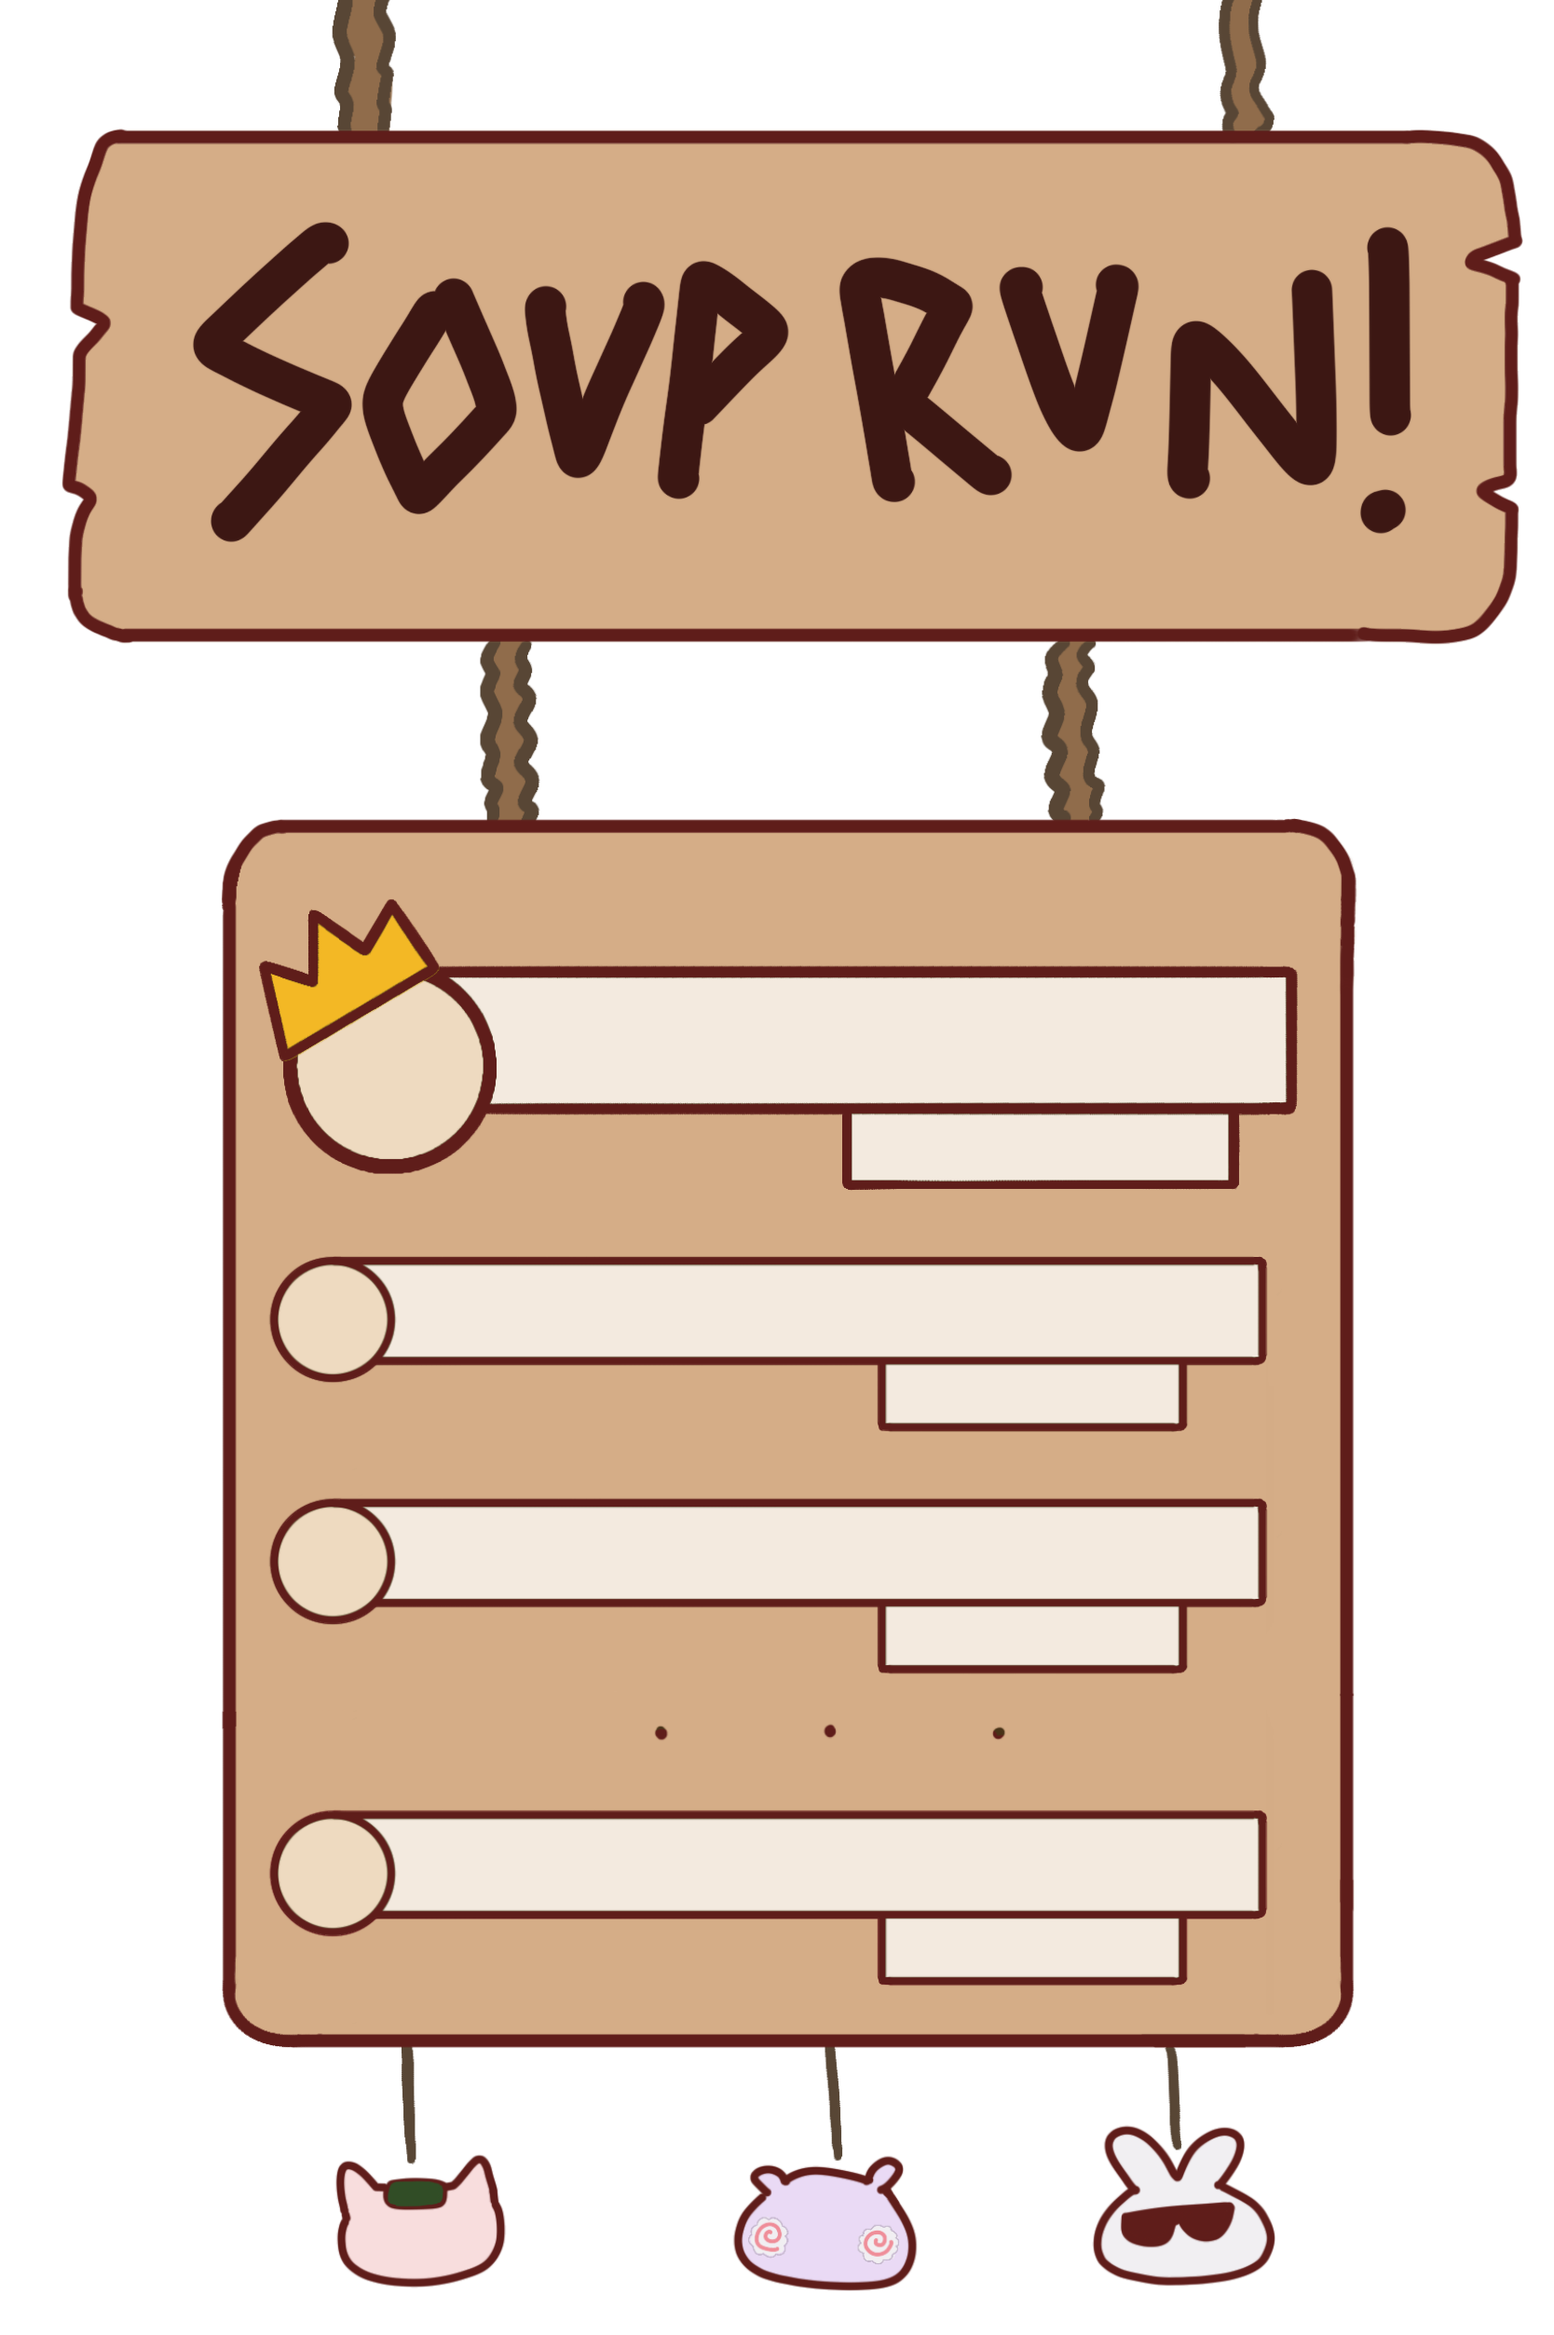
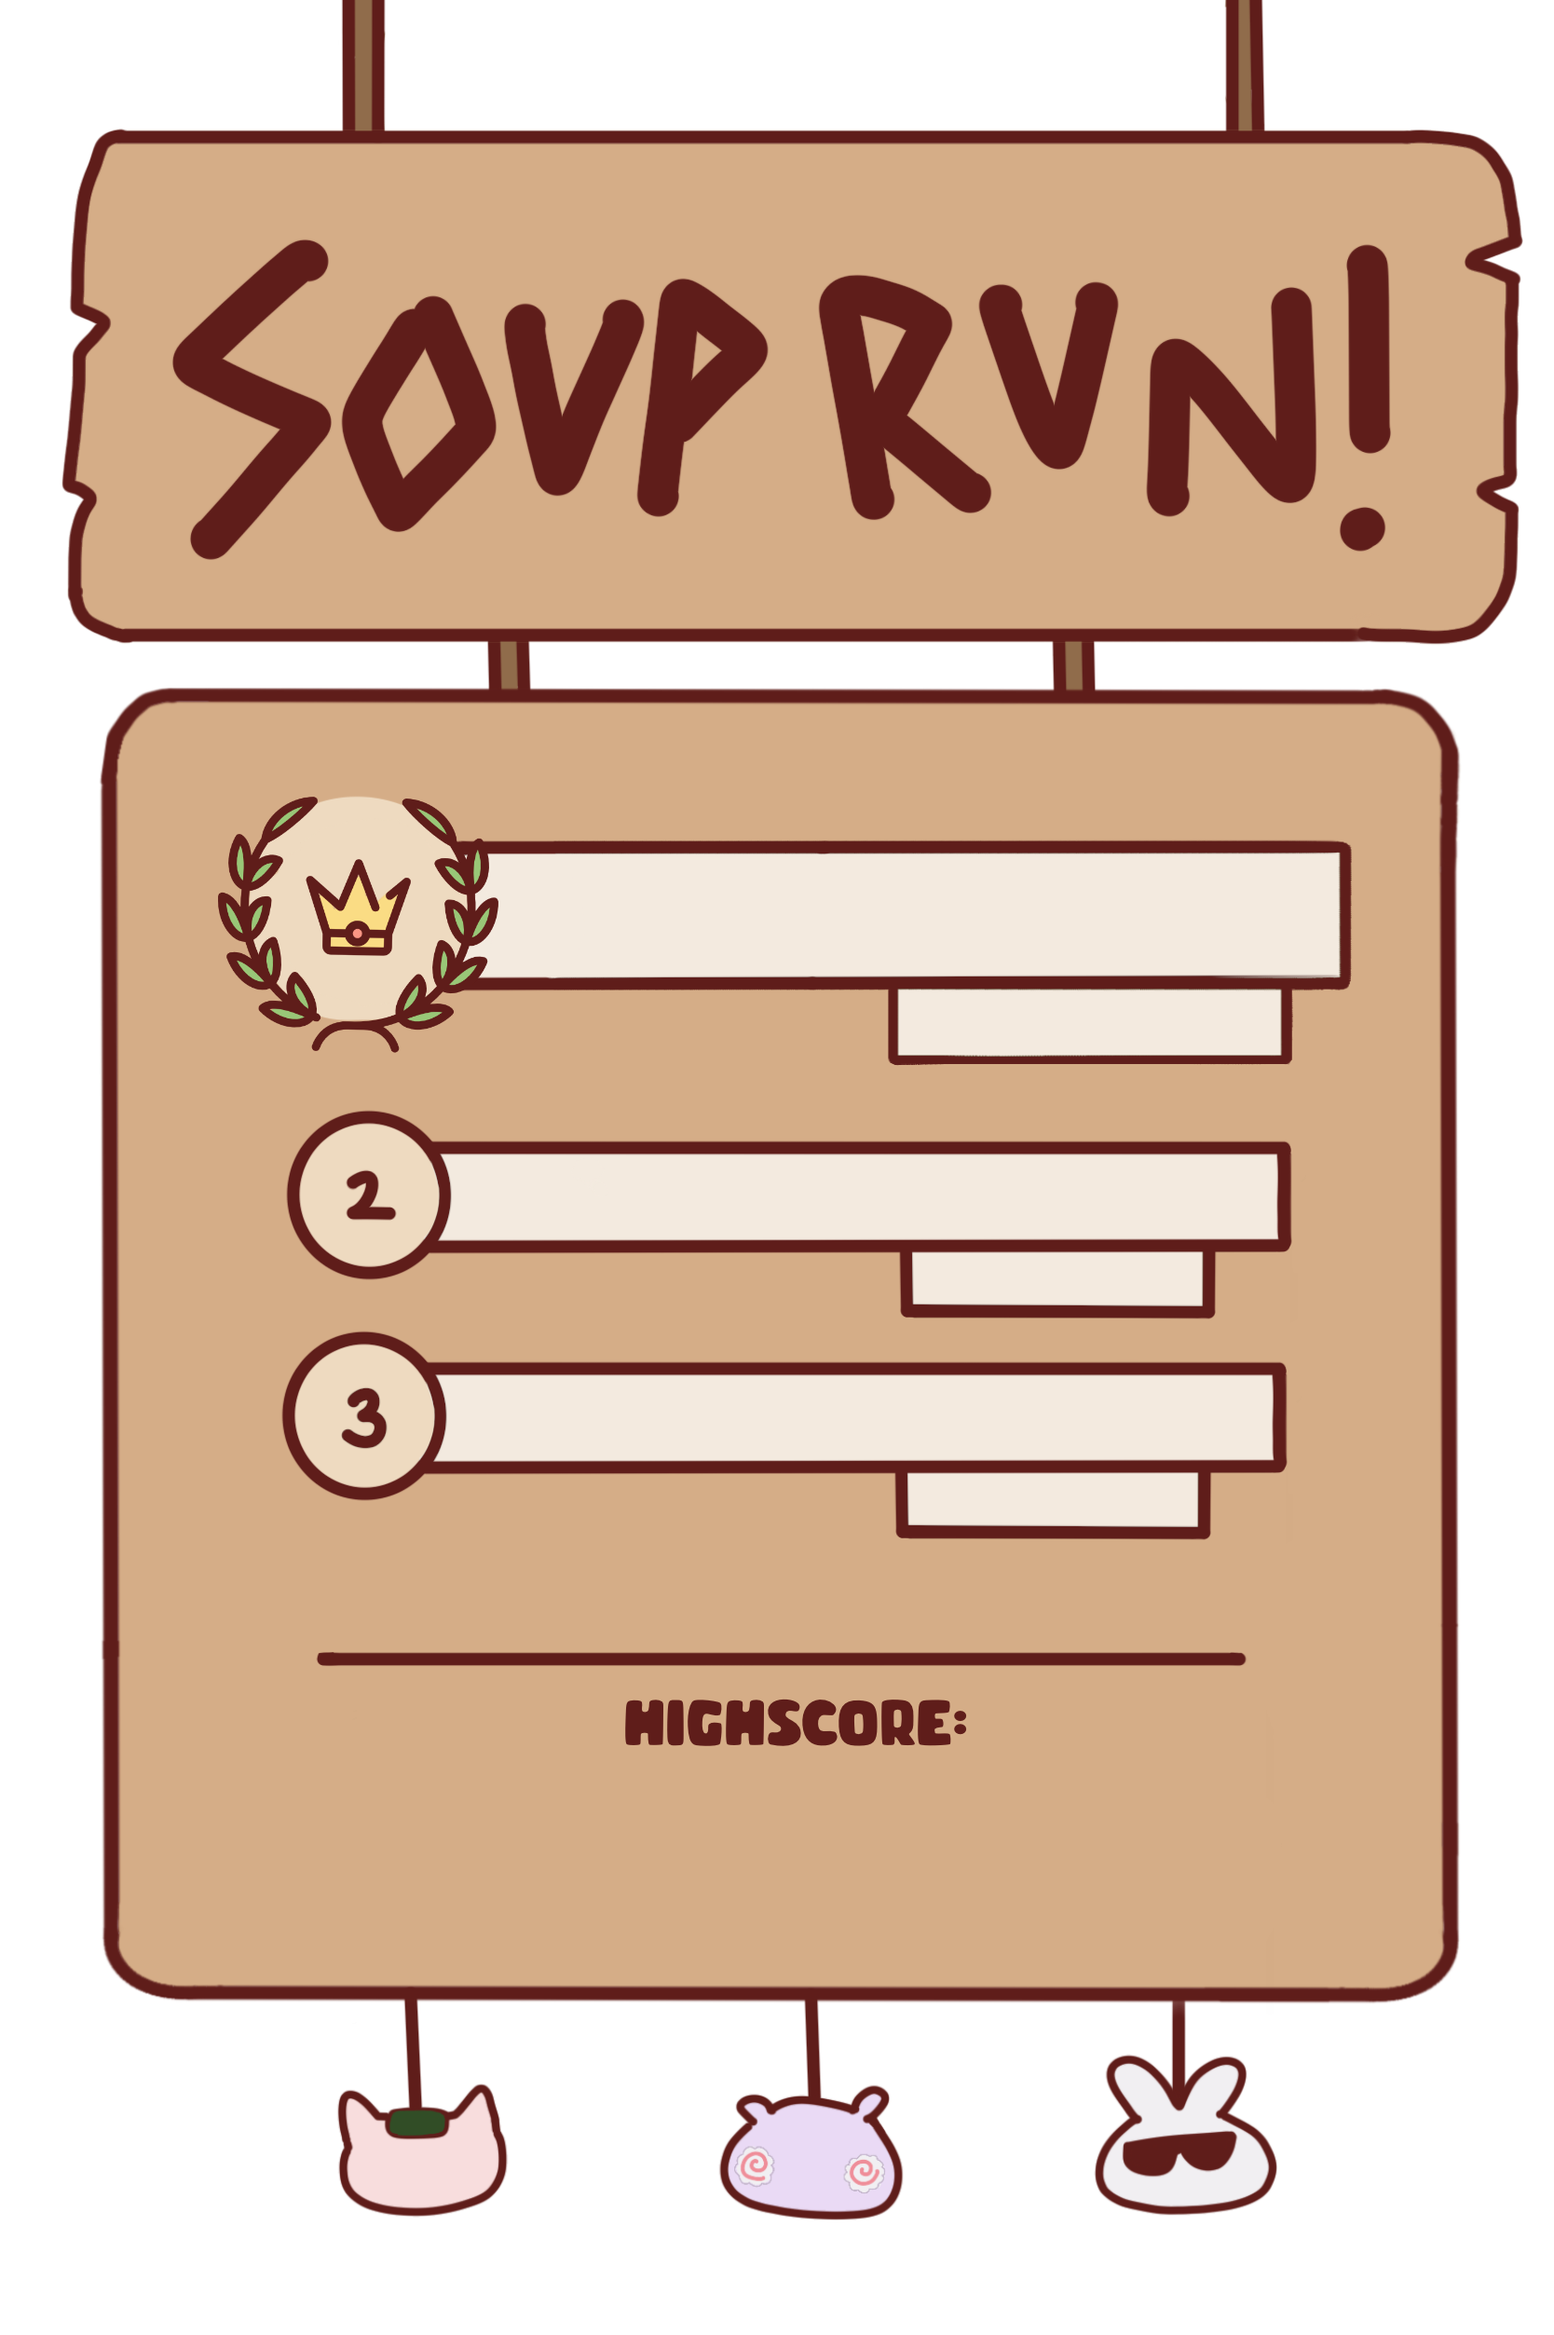
.

diff --git a/souprun/src/components/container.vue b/souprun/src/components/container.vue
@@ -4,7 +4,7 @@
 <template>
   <div>
     <!-- <score :started="started"/> -->
-    <p>{{ this.score }}</p>
+    <p>SCORE: {{ this.score }}</p>
     <canvas id="con"></canvas>
   </div>
 </template>
@@ -45,6 +45,15 @@ export default {
       wait: false,
       a: 0,
       score: 0,
+      catx: 0,
+      caty: 0,
+      cath: 0,
+      catw: 0,
+      i: 0,
+      testerx:0,
+      hippox:0,
+      bunx: 0,
+      gameOver:false,
     }
   },
   mounted() {
@@ -55,32 +64,164 @@ export default {
     this.ctx = this.canvas.getContext('2d')
     this.conRect = this.canvas.getBoundingClientRect()
     this.conBottom = this.conRect.bottom
-    this.canvas.addEventListener('click', this.startButtonClick)
-    this.canvas.addEventListener('click', this.avatarClick)
-    this.canvas.addEventListener('click', this.jump)
+    this.canvas.addEventListener('click', this.clicked)
     this.makeBowl()
-    this.makeStartButton()
-    this.avatarList = ['/bun.png', '/cat.png', '/hippo.png']
+    this.makeLeaderBoard()
+    this.avatarList = ['/bun.png', '/cat.png', '/hippo.png', '/bundied.png', '/hippodead.png']
     this.makeAvatar()
     this.obbyImage = new Image()
     this.obbyImage.src = '/obby1.png'
     this.speed =this.canvas.width /100
+    this.cath =this.canvas.width / 20
+      this.catw =this.canvas.width / 20
+      this.catx = this.canvas.width /12
+      this.caty = this.canvas.width / 1.95
+      this.hippox = this.canvas.width /5.3
+      this.bunx = this.canvas.width /3.5
   },
   
   watch: {
     started(newVal) {
       if (newVal) {
         setTimeout(() => {
+          this.canvas.addEventListener('click', this.jump)
+}, 1000);
+        setTimeout(() => {
           this.spawnObstacle();
           this.startTimer();
 }, 2000);
       }
     },
+    gameOver(newVal){
+      if (newVal === true){
+        if(this.gameOver ===true){
+          console.log("fewknjf")
+        if(this.i === 0){
+          this.i= 3
+        }
+        if(this.i === 2){
+          this.i = 4
+        }
+        this.avatar.src = this.avatarList[this.i]
+          this.ctx.clearRect(0, 0, this.canvas.width, this.canvas.height);
+          this.ctx.drawImage(this.bowl, this.bowlX, this.conBottom, this.bowlWidth, this.bowlHeight);
+          this.ctx.drawImage(this.obbyImage, this.x, this.y, this.width, this.height);
+          this.ctx.drawImage(
+          this.avatar,
+          this.avatarX,
+          this.avatarY,
+          this.avatarWidth,
+          this.avatarHeight
+        )
+        }
+      }
+    }
   },
   methods: {
+    clicked(){
+      const clickX = event.offsetX
+      const clickY = event.offsetY
+      if (
+        clickX >= this.avatarX &&
+        clickX <= this.avatarX + this.avatarWidth &&
+        clickY >= this.avatarY &&
+        clickY <= this.avatarY + this.avatarHeight
+      ) {
+        if (this.started === false) {
+          this.moveBowl()
+        }
+      }
+      if (
+        clickX >= this.catx &&
+        clickX <= this.catx + this.catw &&
+        clickY >= this.caty &&
+        clickY <= this.caty + this.cath
+      ) {
+        if (this.started === false) {
+          console.log("ok")
+          this.i = 1
+          this.ctx.clearRect(0, 0, this.canvas.width, this.canvas.height);
+        this.ctx.drawImage(this.bowl, this.bowlX, this.conBottom, this.bowlWidth, this.bowlHeight);
+        this.ctx.drawImage(
+          this.startBtn,
+          this.startBtnX,
+          0,
+          this.startBtnWidth,
+          this.startBtnHeight
+        )
+          this.makeAvatar()
+        }
+      }
+      if (
+        clickX >= this.hippox &&
+        clickX <= this.hippox + this.catw &&
+        clickY >= this.caty &&
+        clickY <= this.caty + this.cath
+      ) {
+        if (this.started === false) {
+          console.log("hippo")
+          this.i = 2
+          this.ctx.clearRect(0, 0, this.canvas.width, this.canvas.height);
+        this.ctx.drawImage(this.bowl, this.bowlX, this.conBottom, this.bowlWidth, this.bowlHeight);
+        this.ctx.drawImage(
+          this.startBtn,
+          this.startBtnX,
+          0,
+          this.startBtnWidth,
+          this.startBtnHeight
+        )
+          this.makeAvatar()
+        }
+      }
+      if (
+        clickX >= this.bunx &&
+        clickX <= this.bunx + this.catw &&
+        clickY >= this.caty &&
+        clickY <= this.caty + this.cath
+      ) {
+        if (this.started === false) {
+          console.log("hippo")
+          this.i = 0
+          this.ctx.clearRect(0, 0, this.canvas.width, this.canvas.height);
+        this.ctx.drawImage(this.bowl, this.bowlX, this.conBottom, this.bowlWidth, this.bowlHeight);
+        this.ctx.drawImage(
+          this.startBtn,
+          this.startBtnX,
+          0,
+          this.startBtnWidth,
+          this.startBtnHeight
+        )
+          this.makeAvatar()
+        }
+      }
+    },
+    o(){
+      if(this.started === false){
+        this.cath =this.canvas.width / 20
+      this.catw =this.canvas.width / 20
+      this.testerx = this.canvas.width /3.5
+      this.caty = this.canvas.width / 1.95
+      this.ctx.fillRect(this.testerx, this.caty, this.catw, this.cath)
+      this.ctx.fillStyle = 'rgba(225,225,225,0.5)';
+      requestAnimationFrame(this.o);
+      }
+    },
+    collisionDetection() {
+      if (
+        this.avatarX < this.x + this.width &&
+        this.avatarX + this.avatarWidth > this.x &&
+        this.avatarY < this.y + this.height &&
+        this.avatarY + this.avatarHeight > this.y
+      ) {
+        this.started = false;
+        this.gameOver = true;
+      }
+    },
     startTimer() {
       setInterval(() => {
-        this.score += 1;
+        if(this.started === true){
+          this.score += 1;
+        }
       }, 50);
     },
     velocity(){
@@ -93,11 +234,11 @@ export default {
     },
     spawnObstacle() {
       this.wait = false
-      if (this.started) {
-        this.x= this.canvas.width / 1.1,
+      this.x= this.canvas.width / 1.1,
     this.y= this.conBottom * 2,
     this.height= this.canvas.height / 10,
-    this.width= this.canvas.width / 9,
+    this.width= this.canvas.width / 9
+      if (this.started) {
         this.ctx.drawImage(this.obbyImage, this.x, this.y, this.width, this.height);
         this.moveObstacles();
       }
@@ -126,6 +267,7 @@ export default {
           requestAnimationFrame(this.moveObstacles);
     }, delay);
       }
+      this.collisionDetection()
       }
   },
     jump(){
@@ -160,7 +302,7 @@ export default {
         }
         }
         if(this.up === false){
-          if (this.avatarY >= this.conBottom/9  ) {
+          if (this.avatarY >= this.conBottom/-4  ) {
           this.avatarY -= this.canvas.width /150
           this.ctx.drawImage(
             this.avatar,
@@ -179,7 +321,8 @@ export default {
     resizeplz() {
       this.canvas.width = window.innerWidth * 0.75
       this.canvas.height = this.canvas.width * 0.6
-      this.conBottom = this.canvas.height - this.bowlHeight
+  
+        this.conBottom =this.canvas.width /7
       this.bowlWidth = this.canvas.width + this.canvas.width / 2
       this.bowlHeight = this.canvas.height * 0.75
       this.bowlX = this.canvas.width / 3
@@ -188,17 +331,12 @@ export default {
       this.startBtnHeight = this.canvas.width / 1.7
       this.startBtnX = this.canvas.width * 0.001
       this.startBtnY = 0
+      this.avatarWidth = this.canvas.width / 5
+      this.avatarHeight = this.canvas.height / 4
+      this.avatarX = this.canvas.width / 1.5
+      this.avatarY = this.conBottom - this.canvas.width * 0.1
+      this.newAvatarY = this.conBottom + this.canvas.width * 0.05
       this.ctx.drawImage(this.avatar, this.avatarX, this.avatarY, this.avatarWidth, this.avatarHeight);
-      if (this.started === true) {
-        this.ctx.drawImage(
-          this.bowl,
-          this.newBowlX,
-          this.conBottom,
-          this.bowlWidth,
-          this.bowlHeight
-        )
-        
-      } else {
         this.ctx.drawImage(this.bowl, this.bowlX, this.conBottom, this.bowlWidth, this.bowlHeight)
         this.ctx.drawImage(
           this.startBtn,
@@ -207,11 +345,12 @@ export default {
           this.startBtnWidth,
           this.startBtnHeight
         )
-      }
+        this.started = false
+      this.score = 0
     },
     makeAvatar() {
       this.avatar = new Image()
-      this.avatar.src = this.avatarList[this.avatarIndex]
+      this.avatar.src = this.avatarList[this.i]
       this.avatar.onload = () => {
         this.ctx.drawImage(
           this.avatar,
@@ -228,7 +367,7 @@ export default {
       this.newAvatarY = this.conBottom + this.canvas.width * 0.05
       this.newAvatarX = this.canvas.width / 8
     },
-    makeStartButton() {
+    makeLeaderBoard() {
       this.startBtn = new Image()
       this.startBtn.src = '/sign.png' //placeholderrrrrrrrrrrrrrrrrrrrrrrrrrrrrrrr ahhhh
       this.startBtn.onload = () => {
@@ -245,34 +384,20 @@ export default {
       this.startBtnX = this.canvas.width * 0.001
       this.startBtnY = 0
     },
-    startButtonClick(event) {
-      const clickX = event.offsetX
-      const clickY = event.offsetY
-      if (
-        clickX >= this.startBtnX &&
-        clickX <= this.startBtnX + this.startBtnWidth &&
-        clickY >= this.startBtnY &&
-        clickY <= this.startBtnY + this.startBtnHeight
-      ) {
-        this.moveBowl() // Execute moveBowl function
-      }
-    },
-    avatarClick(event) {
-      const clickX = event.offsetX
-      const clickY = event.offsetY
-      if (
-        clickX >= this.avatarX &&
-        clickX <= this.avatarX + this.avatarWidth &&
-        clickY >= this.avatarY &&
-        clickY <= this.avatarY + this.avatarHeight
-      ) {
-        if (this.started === false) {
-          this.avatarIndex += 1
-          this.avatar.src = this.avatarList[this.avatarIndex % this.avatarList.length]
-          this.ctx.clearRect(this.avatarX, this.avatarY, this.avatarWidth, this.avatarHeight)
-        }
-      }
-    },
+    // avatarClick(event) {
+    //   const clickX = event.offsetX
+    //   const clickY = event.offsetY
+    //   if (
+    //     clickX >= this.avatarX &&
+    //     clickX <= this.avatarX + this.avatarWidth &&
+    //     clickY >= this.avatarY &&
+    //     clickY <= this.avatarY + this.avatarHeight
+    //   ) {
+    //     if (this.started === false) {
+    //       this.moveBowl()
+    //     }
+    //   }
+    // },
     makeBowl() {
       this.bowl = new Image()
       this.bowl.src = '/bowl.png'
@@ -285,7 +410,7 @@ export default {
       this.bowlWidth = this.canvas.width + this.canvas.width / 2
       this.bowlHeight = this.canvas.height * 0.75
       this.bowlX = this.canvas.width / 3
-      this.conBottom = this.canvas.height - this.bowlHeight
+      this.conBottom = this.canvas.width /7
       this.newBowlX = this.bowlX / -0.7
     },
     moveBowl() {
